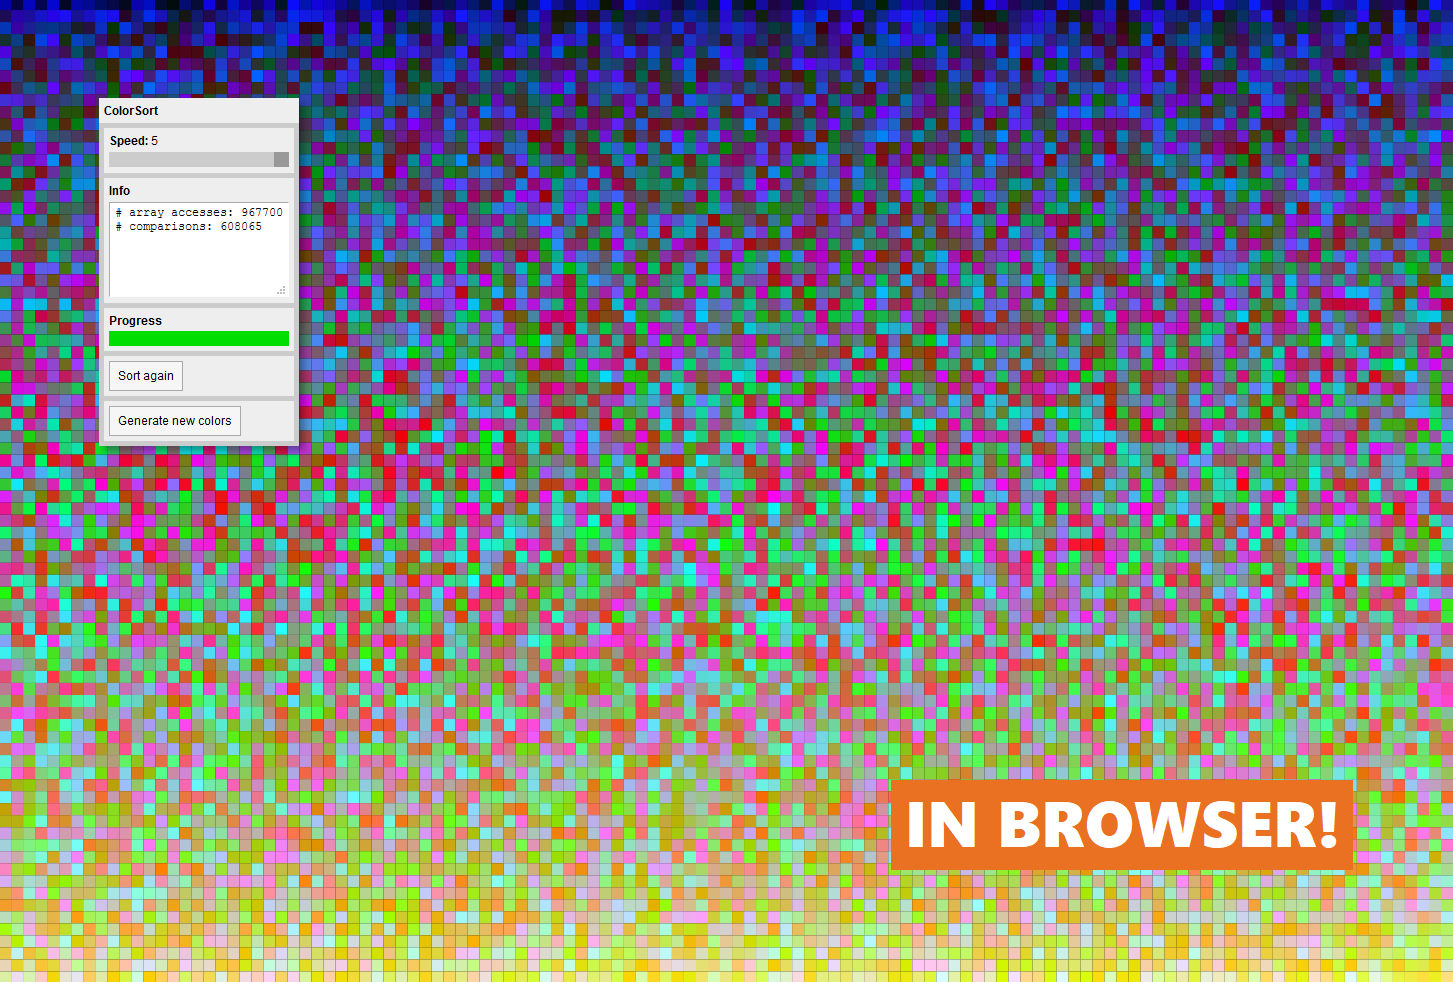
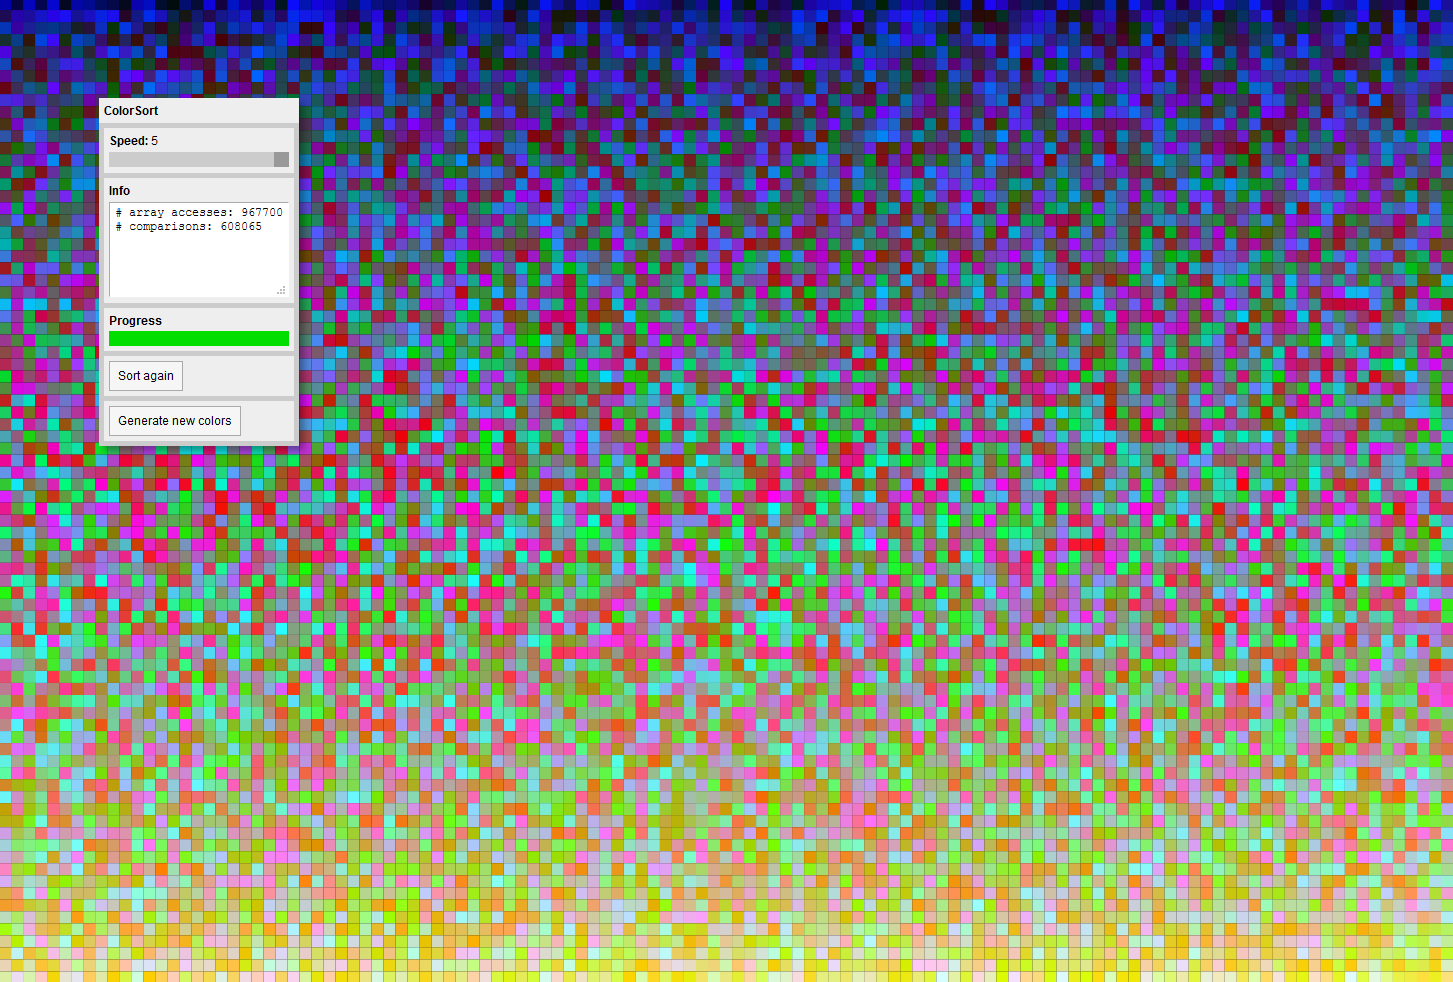
Added "in browser" div

Changed region(s): [[0.5884, 0.7943, 0.9291, 0.8859]]

diff --git a/assets/css/main.css b/assets/css/main.css
@@ -7,6 +7,19 @@
 	Free for personal and commercial use under the CCA 3.0 license (html5up.net/license)
 */
 
+.in_browser {
+	display: inline;
+	position: absolute;
+	bottom: 50px;
+	right: 0px;
+	z-index: 1;
+	color: white;
+	font-size: 28px;
+	background-color: rgb(233, 113, 33);
+	padding-left: 10px;
+	padding-right: 10px;
+}
+
 @-moz-keyframes spinner {
 	0% {
 		-moz-transform: rotate(0deg);

diff --git a/index.html b/index.html
@@ -47,6 +47,7 @@
 						</article>
 						<article class="thumb">
 							<a href="https://techiew.github.io/ColorSort/" class="image"><img src="images/colorsort.png" alt="" /></a>
+							<div class="in_browser">IN BROWSER!</div>
 							<h2>Color Sorter</h2>
 						</article>
 						<article class="thumb">
